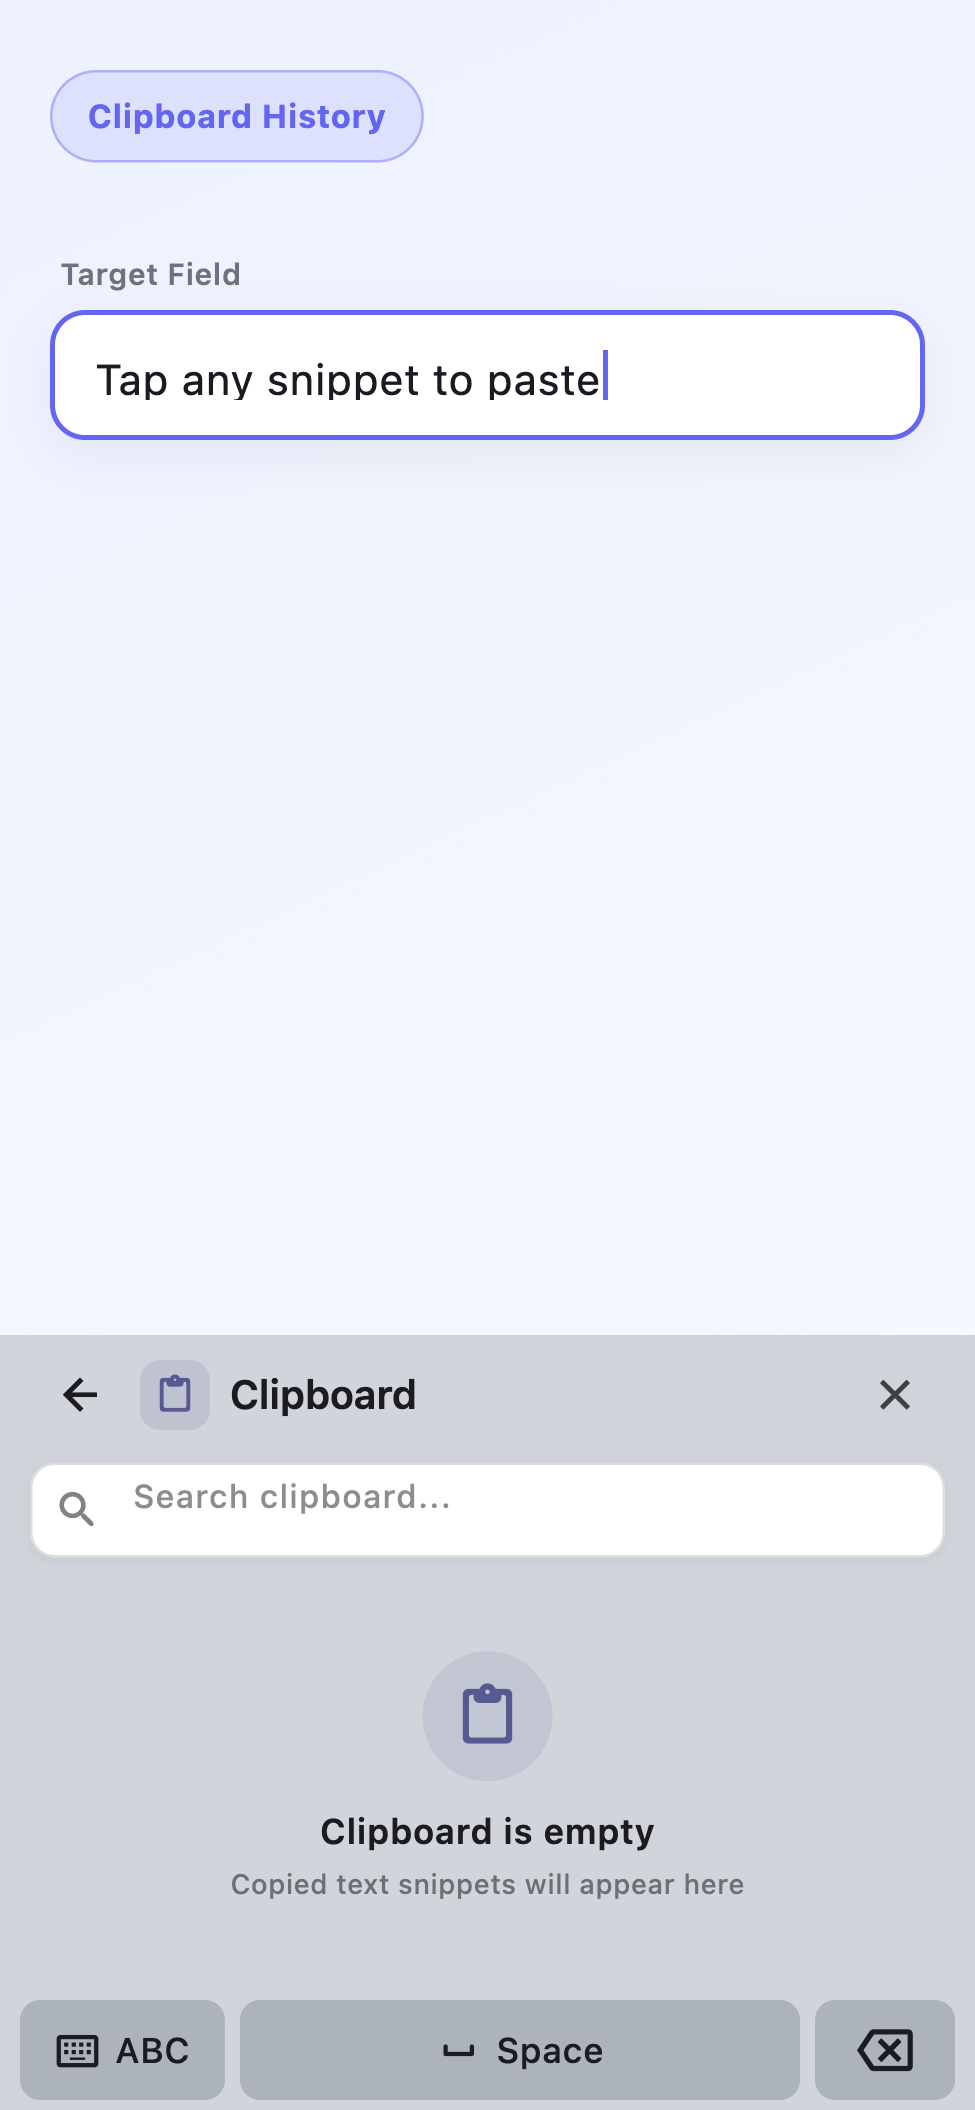
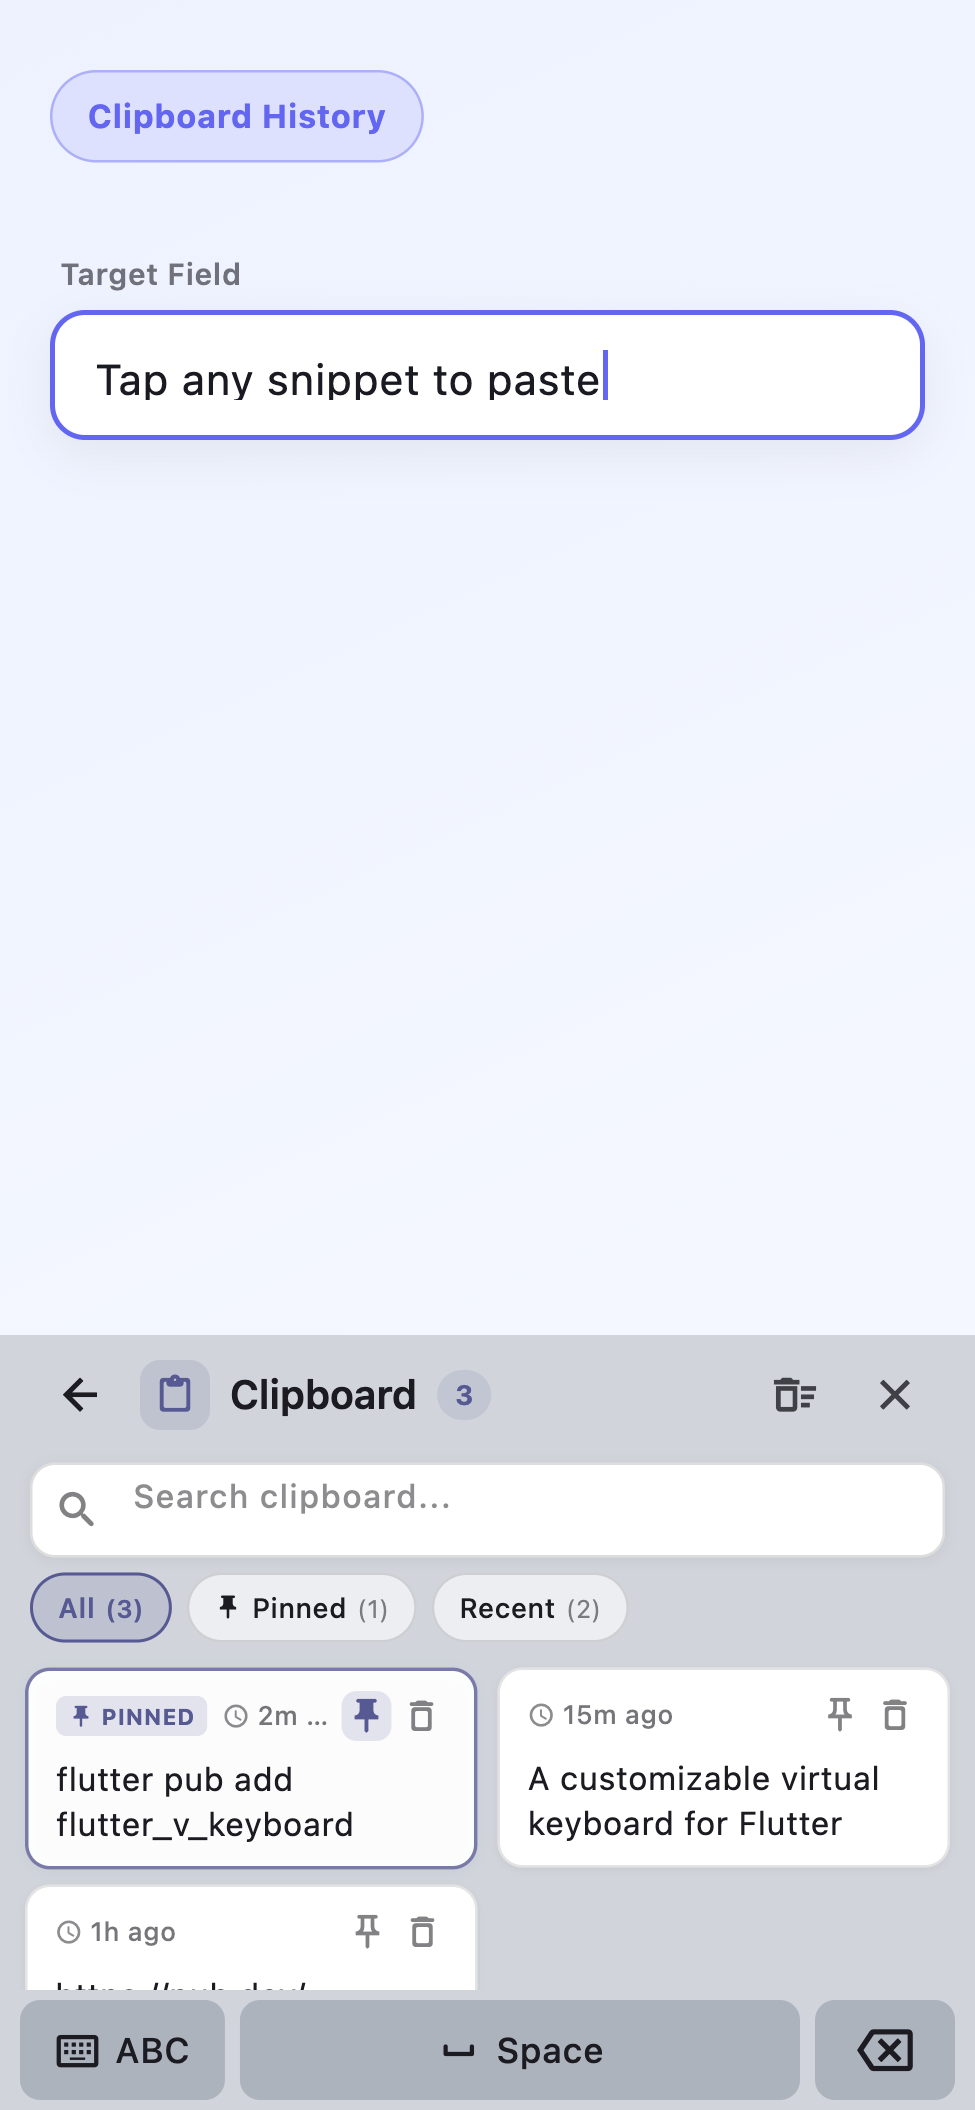
feat(clipboard): update clipboard history management with sample items and improved initialization

Changed region(s): [[0.0, 0.7393, 0.9846, 0.955], [0.8, 0.6469, 0.8308, 0.6777], [0.4615, 0.6469, 0.4923, 0.6777]]

diff --git a/example/integration_test/showcase_test.dart b/example/integration_test/showcase_test.dart
@@ -565,14 +565,32 @@ Widget _clipboardTrigger() => _phoneScreen(
     );
 
 Widget _clipboardHistory({String query = ''}) {
-  final storage = InMemoryClipboardHistoryStorage();
-  final manager = ClipboardHistoryManager(storage: storage);
+  final now = DateTime.now();
+  final storage = InMemoryClipboardHistoryStorage([
+    ClipboardHistoryItem(
+      id: 'clip_1',
+      text: 'flutter pub add flutter_v_keyboard',
+      createdAt: now.subtract(const Duration(minutes: 2)),
+      isPinned: true,
+    ),
+    ClipboardHistoryItem(
+      id: 'clip_2',
+      text: 'A customizable virtual keyboard for Flutter',
+      createdAt: now.subtract(const Duration(minutes: 15)),
+      isPinned: false,
+    ),
+    ClipboardHistoryItem(
+      id: 'clip_3',
+      text: 'https://pub.dev/packages/flutter_v_keyboard',
+      createdAt: now.subtract(const Duration(hours: 1)),
+      isPinned: false,
+    ),
+  ]);
+  final manager = ClipboardHistoryManager(
+    storage: storage,
+    syncSystemClipboard: false,
+  );
   final controller = VKeyboardController(clipboardHistory: manager);
-
-  manager.record('https://pub.dev/packages/flutter_v_keyboard');
-  manager.record('A customizable virtual keyboard for Flutter');
-  manager.record('flutter pub add flutter_v_keyboard');
-  manager.togglePin(manager.items.first.id);
 
   return _phoneScreen(
     dark: false,

diff --git a/README.md b/README.md
@@ -1,5 +1,5 @@
 <p align="center">
-  <img src="https://raw.githubusercontent.com/tegarnugroho/v_keyboard/main/assets/showcase/hero.png" alt="flutter_v_keyboard hero showcase" width="100%">
+  <img src="assets/showcase/hero.png" alt="flutter_v_keyboard hero showcase" width="100%">
 </p>
 
 # flutter_v_keyboard
@@ -20,26 +20,26 @@ Unlike simple keyboard widgets, `flutter_v_keyboard` pairs a drop-in `VTextField
 
 | Standard | Number / PIN | Password | Multiline |
 | :---: | :---: | :---: | :---: |
-| <img src="https://raw.githubusercontent.com/tegarnugroho/v_keyboard/main/assets/showcase/mobile_standard.png" width="200" alt="Standard mobile layout"> | <img src="https://raw.githubusercontent.com/tegarnugroho/v_keyboard/main/assets/showcase/mobile_number.png" width="200" alt="Number and PIN layout"> | <img src="https://raw.githubusercontent.com/tegarnugroho/v_keyboard/main/assets/showcase/mobile_password.png" width="200" alt="Password layout"> | <img src="https://raw.githubusercontent.com/tegarnugroho/v_keyboard/main/assets/showcase/mobile_multiline.png" width="200" alt="Multiline input layout"> |
+| <img src="assets/showcase/mobile_standard.png" width="200" alt="Standard mobile layout"> | <img src="assets/showcase/mobile_number.png" width="200" alt="Number and PIN layout"> | <img src="assets/showcase/mobile_password.png" width="200" alt="Password layout"> | <img src="assets/showcase/mobile_multiline.png" width="200" alt="Multiline input layout"> |
 
 ### Customization
 
 | Light Theme | Dark Theme | Emoji Panel |
 | :---: | :---: | :---: |
-| <img src="https://raw.githubusercontent.com/tegarnugroho/v_keyboard/main/assets/showcase/light_theme.png" width="240" alt="Light theme preset"> | <img src="https://raw.githubusercontent.com/tegarnugroho/v_keyboard/main/assets/showcase/dark_theme.png" width="240" alt="Dark theme preset"> | <img src="https://raw.githubusercontent.com/tegarnugroho/v_keyboard/main/assets/showcase/mobile_emoji.png" width="240" alt="Categorized emoji picker"> |
+| <img src="assets/showcase/light_theme.png" width="240" alt="Light theme preset"> | <img src="assets/showcase/dark_theme.png" width="240" alt="Dark theme preset"> | <img src="assets/showcase/mobile_emoji.png" width="240" alt="Categorized emoji picker"> |
 
 ### Desktop
 
 Full physical desktop layout featuring function keys, navigation clusters, and responsive collapsing sections.
 
 <p align="center">
-  <img src="https://raw.githubusercontent.com/tegarnugroho/v_keyboard/main/assets/showcase/desktop_keyboard.png" alt="Desktop keyboard layout with function row and navigation cluster" width="100%">
+  <img src="assets/showcase/desktop_keyboard.png" alt="Desktop keyboard layout with function row and navigation cluster" width="100%">
 </p>
 
 Responsive scaling across phones, landscape mode, tablets, and wide desktop windows.
 
 <p align="center">
-  <img src="https://raw.githubusercontent.com/tegarnugroho/v_keyboard/main/assets/showcase/responsive.png" alt="Responsive layout scaling across phone, tablet, and desktop" width="100%">
+  <img src="assets/showcase/responsive.png" alt="Responsive layout scaling across phone, tablet, and desktop" width="100%">
 </p>
 
 ### Clipboard History
@@ -48,7 +48,7 @@ Production-ready clipboard history integrated directly into the virtual keyboard
 
 | Integrated Key | History Panel | Search & Filter |
 | :---: | :---: | :---: |
-| <img src="https://raw.githubusercontent.com/tegarnugroho/v_keyboard/main/assets/showcase/clipboard_trigger.png" width="240" alt="Integrated clipboard history key"> | <img src="https://raw.githubusercontent.com/tegarnugroho/v_keyboard/main/assets/showcase/clipboard_history.png" width="240" alt="Clipboard history panel with pinned snippets"> | <img src="https://raw.githubusercontent.com/tegarnugroho/v_keyboard/main/assets/showcase/clipboard_search.png" width="240" alt="Search and quick filter chips"> |
+| <img src="assets/showcase/clipboard_trigger.png" width="240" alt="Integrated clipboard history key"> | <img src="assets/showcase/clipboard_history.png" width="240" alt="Clipboard history panel with pinned snippets"> | <img src="assets/showcase/clipboard_search.png" width="240" alt="Search and quick filter chips"> |
 
 ---
 
@@ -100,7 +100,7 @@ Or add it manually under dependencies:
 
 ```yaml
 dependencies:
-  flutter_v_keyboard: ^0.2.0
+  flutter_v_keyboard: ^0.2.1
 ```
 
 ---

diff --git a/CHANGELOG.md b/CHANGELOG.md
@@ -1,3 +1,22 @@
+## 0.2.1
+
+- **OS Clipboard Synchronization**:
+  - Automatically synchronize clipboard history with host operating system clipboard across Android, iOS, macOS, Windows, Linux, and Web via `ClipboardHistoryManager.syncFromSystemClipboard()`.
+  - Copy and cut shortcuts (`Cmd+C`, `Ctrl+C`, `Cmd+X`, `Ctrl+X`) seamlessly populate system clipboard and history.
+  - Add `VKeyboardConfig.syncSystemClipboard` configuration toggle.
+- **Virtual Keyboard Clipboard Trigger**:
+  - Add small, subtle clipboard history icon key directly into virtual keyboard layouts (`123`/symbols page and desktop cluster) without altering keyboard height.
+  - Accessible semantic label and tooltip for clipboard key actions.
+- **UI & Experience Polish**:
+  - Modernized `ClipboardHistoryPanel` with refined typography, professional icon set, item counter badge, and quick filter chips (`All`, `Pinned`, `Recent`).
+  - High-contrast visual styling and robust system font fallback stacks across light and dark themes.
+- **Bug Fixes & Reliability**:
+  - Fix framework locked widget tree assertion: defer `setState()` in `VKeyboardScope` during unmount and persistent callback phases.
+  - Export `ClipboardHistoryPanel` and `EmojiPanel` directly in package public exports.
+- **Showcase & Example App**:
+  - Redesigned example app with macOS-style window framing, interactive playground, floating clipboard preview, and full-screen desktop keyboard view.
+  - Update all showcase screenshots in README with latest high-resolution app captures.
+
 ## 0.2.0
 
 - **Clipboard History (`Win + V` style)**:
